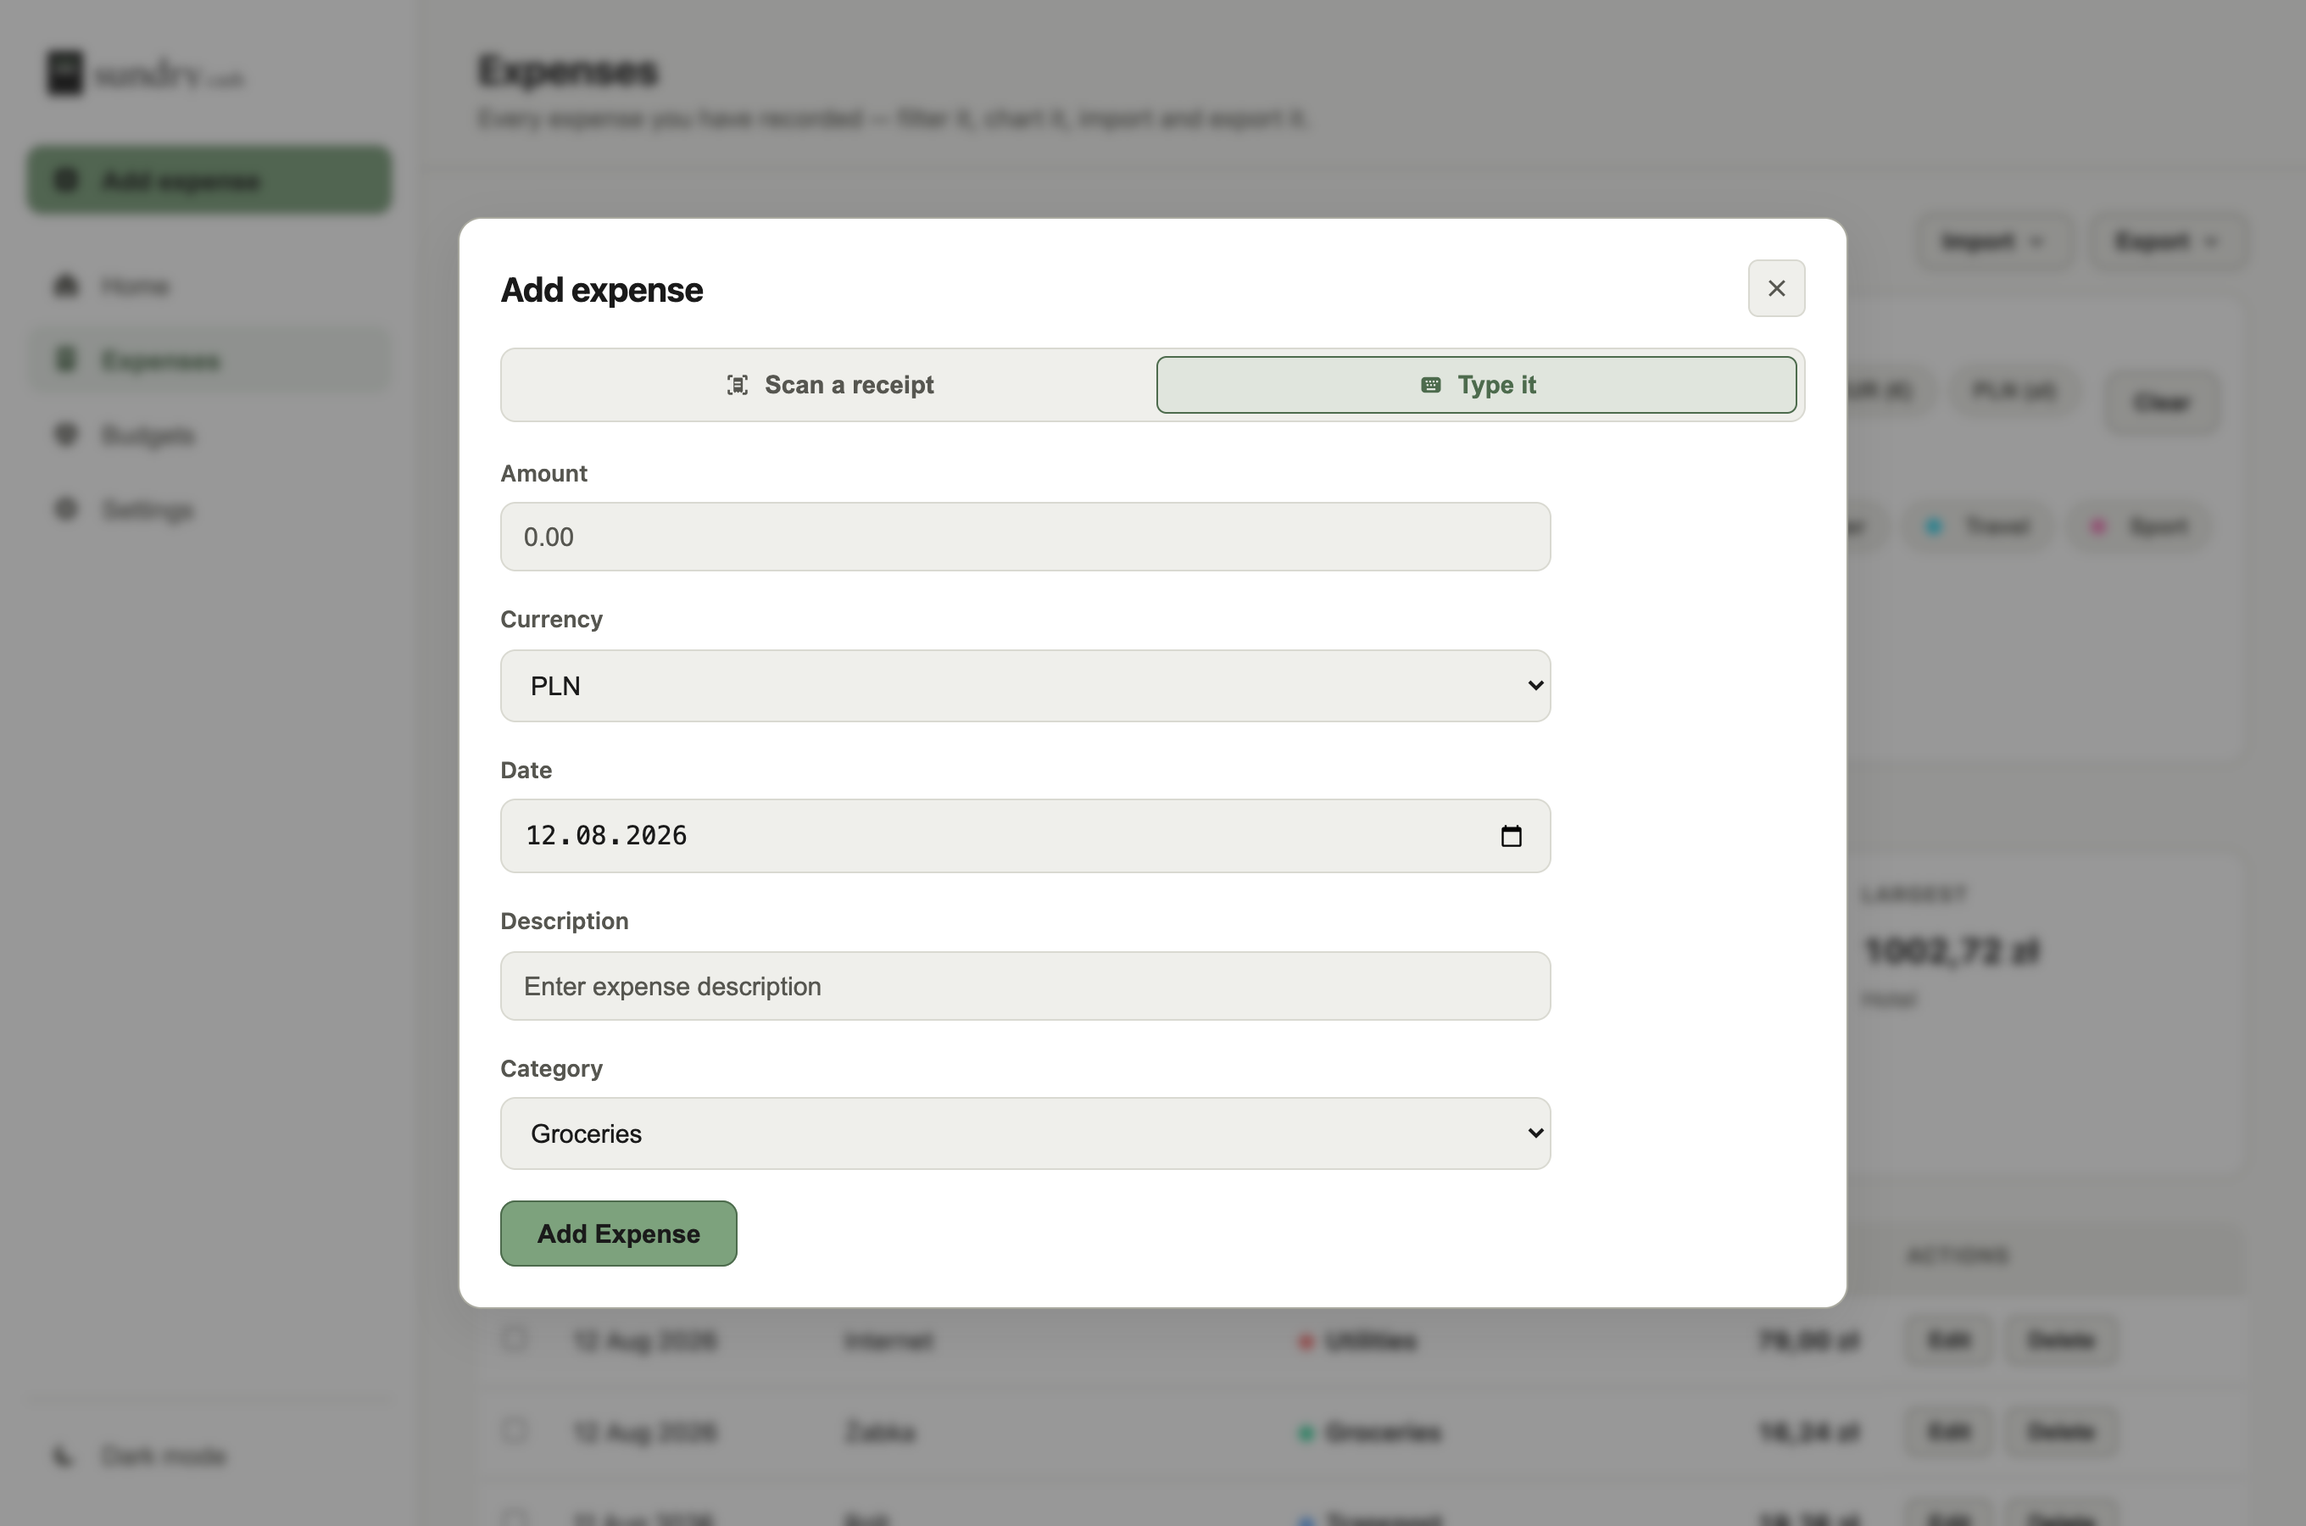
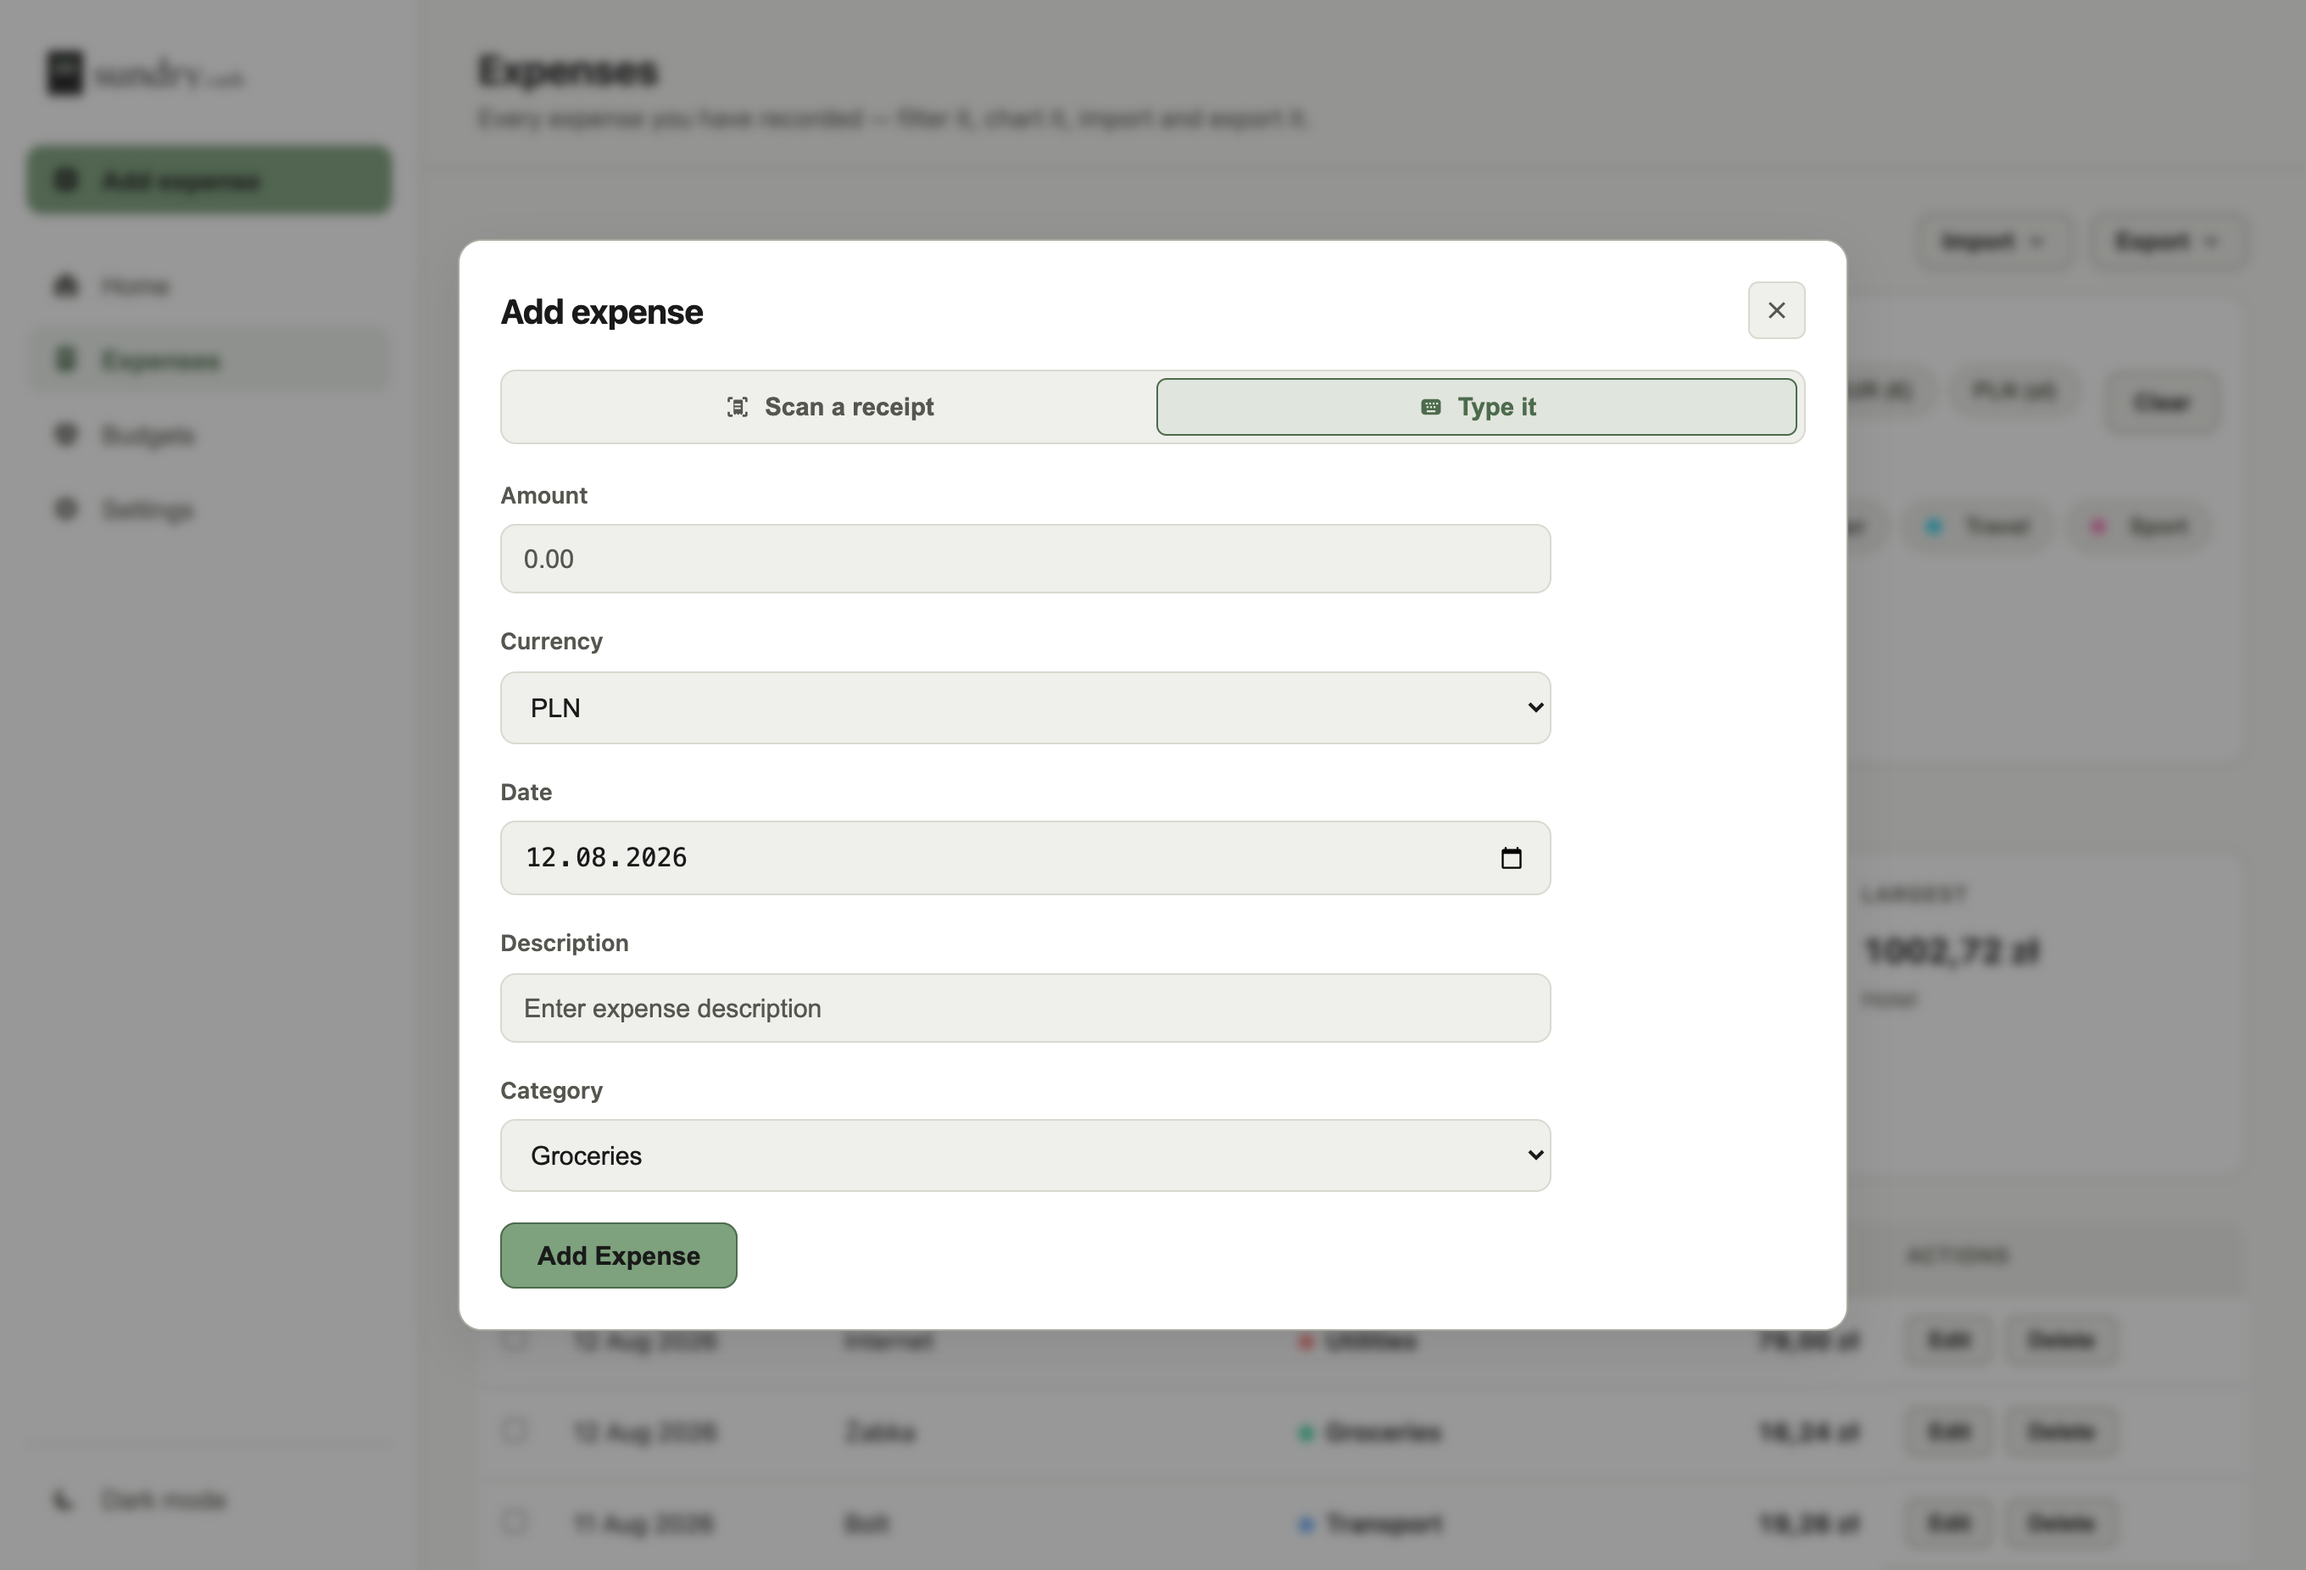
docs(gallery): the Add frame ends between two rows, not through one
add.png is a viewport rather than a whole screen — the sheet is the subject,
and the ledger behind it has no bottom. At a round 900px the frame cut the
"11 Aug 2026 · Bolt" row through its glyphs; blurred and dimmed is not a
licence to do the thing the rest of the set avoids, so the height is snapped
to the nearest row boundary (926) and the README says so.

Also drops "the read/edit split" from the budgets.png row: in the All → PLN
scope that shot is taken in, Edit limits is disabled by design, so the table
promised something the image cannot show.

diff --git a/gallery/README.md b/gallery/README.md
@@ -10,8 +10,8 @@ frame proves that without showing every screen twice.
 | --- | --- | --- |
 | `home.png` | Home — the headline, findings as section headings, and each section's own window beside it | 1360×1385 @2x |
 | `expenses.png` | Expenses — the ledger and the query tool in one: filter bar, summary row, spend over time and spend by category | 1360×2957 @2x |
-| `budgets.png` | Budgets — the verdict line, the month stepper, the pace figure and the read/edit split | 1360×1270 @2x |
-| `add.png` | The Add sheet over Expenses, with its **Scan a receipt** / **Type it** tabs and the screen still visible underneath | 1360×900 @2x |
+| `budgets.png` | Budgets — the verdict line first, then the month stepper and the pace figure | 1360×1270 @2x |
+| `add.png` | The Add sheet over Expenses, with its **Scan a receipt** / **Type it** tabs and the screen still visible underneath | 1360×926 @2x |
 | `settings.png` | Settings — one row per currency carrying enable, symbol, decimals and its rate, which is where the FX screen went | 1360×1223 @2x |
 | `mobile.png` | Home on a phone: the bottom bar's four destinations and the raised **+** | 390×844 @3x |
 | `home-dark.png` | Home again, in dark, so the pair reads as one product in two themes | 1360×1385 @2x |
@@ -43,7 +43,9 @@ these images are pictures of the product rather than of that instance.
 
 - **Desktop 1360 wide at 2×.** Height is chosen per screen and ends in the gap *between* two
   sections — a card cut in half looks like a bug rather than a crop. `home.png` stops after
-  Subscriptions; `settings.png` stops after Currencies.
+  Subscriptions; `settings.png` stops after Currencies. `add.png` is a viewport rather than a whole
+  screen, since the sheet is the subject, so its height is snapped to a ledger-row boundary of the
+  page behind it — blurred and dimmed is not a licence to cut a row through the middle.
 - **Phone 390×844 at 3×** for `mobile.png`.
 - Start the frame at the top of the content, not mid-page.
 - **Light is the default**, so nothing needs setting for the six light shots; `home-dark.png` wants
